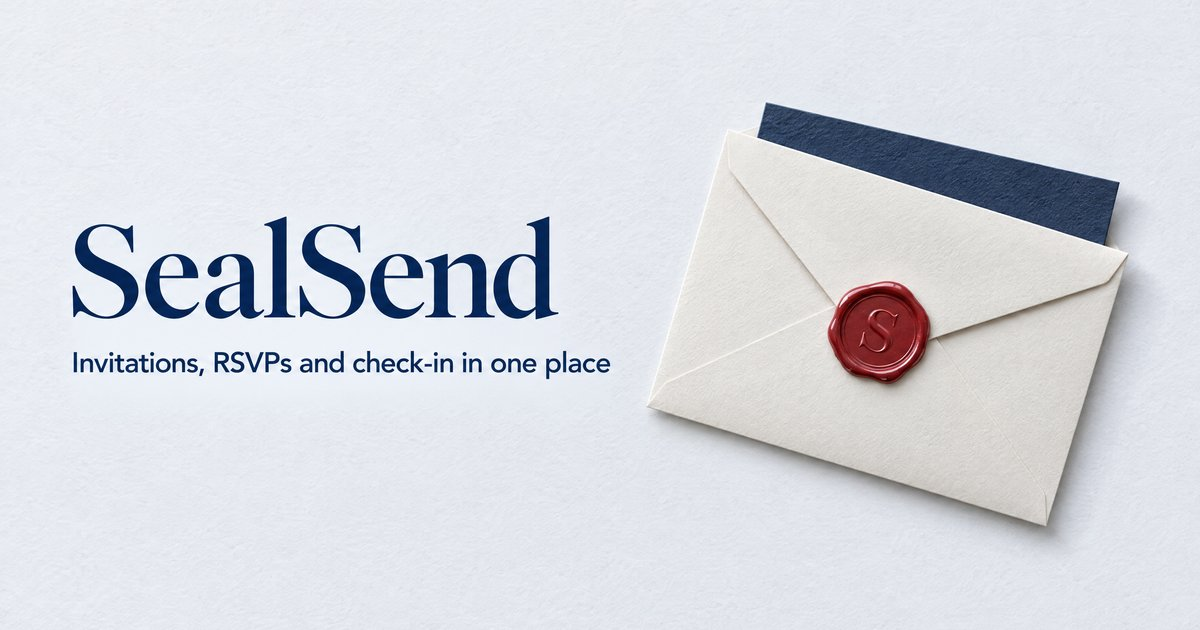
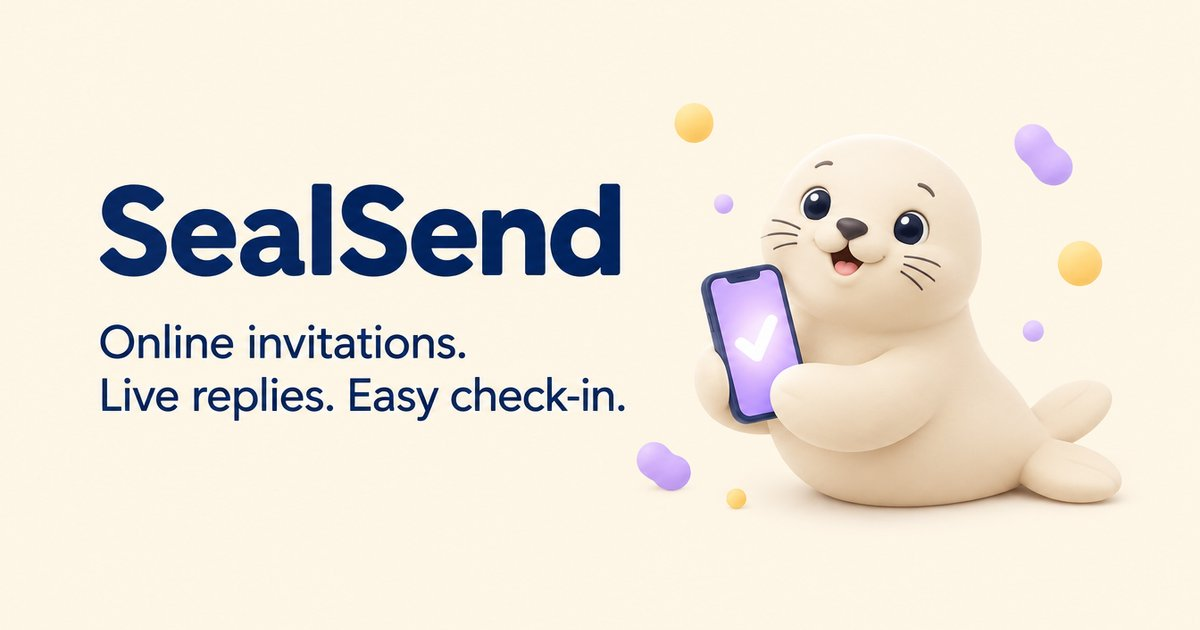
Clarify digital invitation positioning (#243)
* Make marketing clearly about digital invitations

* Return plain font readiness result to browser tests

diff --git a/src/components/marketing/DigitalInvitationVisual.tsx b/src/components/marketing/DigitalInvitationVisual.tsx
@@ -1,0 +1,72 @@
+import { cn } from "@/lib/utils";
+
+interface DigitalInvitationVisualProps {
+  /** Use the compact treatment in a feature row while keeping the same visual language as the hero. */
+  compact?: boolean;
+  className?: string;
+}
+
+/**
+ * A CSS illustration of a digital invitation. It deliberately has no controls
+ * or links: every label is sample content, so the visual cannot impersonate
+ * a live invitation or suggest that a guest action has been submitted.
+ */
+export default function DigitalInvitationVisual({ compact = false, className }: DigitalInvitationVisualProps) {
+  return (
+    <figure
+      aria-label="Illustrative example of an online invitation with sample replies"
+      className={cn("relative w-full", compact ? "min-h-[16rem]" : "min-h-[25rem]", className)}
+    >
+      <div
+        aria-hidden="true"
+        className={cn(
+          "relative isolate flex h-full min-h-[inherit] items-center overflow-hidden rounded-[2rem] border border-[#1b2a4a]/10 bg-[#f2ecff] p-4 shadow-[0_18px_50px_-30px_rgba(27,42,74,0.55)] sm:p-7",
+          compact && "rounded-2xl p-3 sm:p-5",
+        )}
+      >
+        <span className="absolute -right-12 -top-12 -z-10 h-32 w-32 rounded-full bg-[#f2d875]/75" />
+        <span className="absolute -bottom-16 -left-10 -z-10 h-36 w-36 rounded-full bg-[#b7d7c1]/80" />
+        <div className={cn("mx-auto grid w-full max-w-3xl items-center gap-3 sm:grid-cols-[minmax(0,1fr)_10rem] sm:gap-5", compact && "sm:grid-cols-[minmax(0,1fr)_8rem] sm:gap-3")}>
+          <div className="overflow-hidden rounded-2xl border border-[#1b2a4a]/15 bg-white shadow-[0_12px_28px_-20px_rgba(27,42,74,0.8)]">
+            <div className="flex h-8 items-center gap-1.5 border-b border-[#1b2a4a]/10 bg-[#fbfaf7] px-3">
+              <span className="h-2 w-2 rounded-full bg-[#ed8d74]" />
+              <span className="h-2 w-2 rounded-full bg-[#f2d875]" />
+              <span className="h-2 w-2 rounded-full bg-[#b7d7c1]" />
+              <span className="ml-2 truncate text-[0.6rem] font-semibold tracking-wide text-[#1b2a4a]/80">sealsend.app / invitation</span>
+            </div>
+            <div className={cn("bg-[#fbfaf7] p-3 sm:p-5", compact && "p-3 sm:p-4")}>
+              <div className="mx-auto max-w-[22rem] rounded-xl border border-[#1b2a4a]/10 bg-white p-4 text-center shadow-sm sm:p-5">
+                <span className="inline-flex rounded-full bg-[#f2d875]/45 px-2.5 py-1 text-[0.55rem] font-bold uppercase tracking-[0.16em] text-[#1b2a4a]">
+                  Online invitation
+                </span>
+                <p className="mt-3 font-display text-xl leading-tight text-[#1b2a4a] sm:text-2xl">Sam&apos;s summer birthday</p>
+                <p className="mt-2 text-xs leading-relaxed text-[#1b2a4a]/80">Saturday, August 16 · 6:30 pm<br />The garden behind the house</p>
+                <div className="mt-4 h-1.5 overflow-hidden rounded-full bg-[#b7d7c1]/45">
+                  <span className="block h-full w-3/4 rounded-full bg-[#759d82]" />
+                </div>
+                <p className="mt-2 text-[0.65rem] font-semibold text-[#1b2a4a]/80">18 yes · 4 maybe · 2 can&apos;t make it</p>
+              </div>
+            </div>
+          </div>
+
+          <div className="mx-auto w-full max-w-[10rem] rounded-[1.35rem] border-[5px] border-[#1b2a4a] bg-[#fbfaf7] p-2 shadow-[0_15px_28px_-18px_rgba(27,42,74,0.9)]">
+            <div className="mx-auto mb-2 h-1 w-8 rounded-full bg-[#1b2a4a]/45" />
+            <div className="rounded-[0.8rem] bg-white p-2.5">
+              <span className="inline-flex rounded-full bg-[#d9c9f4] px-2 py-1 text-[0.48rem] font-bold uppercase tracking-wide text-[#1b2a4a]">Sample replies</span>
+              <p className="mt-3 text-[0.7rem] font-bold leading-tight text-[#1b2a4a]">Who&apos;s coming?</p>
+              <div className="mt-2 space-y-1.5 text-[0.55rem] font-semibold text-[#1b2a4a]/75">
+                <span className="block rounded-md bg-[#b7d7c1]/45 px-2 py-1.5">Yes · 18</span>
+                <span className="block rounded-md bg-[#f2d875]/40 px-2 py-1.5">Maybe · 4</span>
+                <span className="block rounded-md bg-[#ed8d74]/20 px-2 py-1.5">Can&apos;t make it · 2</span>
+              </div>
+            </div>
+            <span className="mx-auto mt-2 block h-1 w-8 rounded-full bg-[#1b2a4a]/30" />
+          </div>
+        </div>
+      </div>
+      <figcaption className="mt-3 text-center text-xs font-medium text-neutral-600">
+        Illustrative example · sample replies shown, not a live invitation.
+      </figcaption>
+    </figure>
+  );
+}

diff --git a/src/components/marketing/Hero.tsx b/src/components/marketing/Hero.tsx
@@ -1,15 +1,15 @@
-import Image from "next/image";
 import { SealMark } from "@/components/layout/Logo";
 import { PRIMARY_CTA_NOTE, PrimaryCta, SecondaryCta } from "@/components/marketing/Cta";
+import DigitalInvitationVisual from "@/components/marketing/DigitalInvitationVisual";
 
 export default function Hero() {
   return (
     <section className="relative overflow-hidden bg-[#faf7f0]">
       <div className="mx-auto grid max-w-7xl items-center gap-8 px-4 py-12 sm:px-6 sm:py-16 lg:grid-cols-12 lg:gap-6 lg:px-8 lg:py-20">
         <div className="lg:col-span-5">
-          <p className="inline-flex items-center gap-2 rounded-full border border-ink/15 bg-[#f2d875]/35 px-4 py-2 text-sm font-semibold text-ink"><SealMark className="animate-seal-press h-6 w-6 shrink-0" />A little less admin. A lot more together.</p>
+          <p className="inline-flex items-center gap-2 rounded-full border border-ink/15 bg-[#f2d875]/35 px-4 py-2 text-sm font-semibold text-ink"><SealMark className="animate-seal-press h-6 w-6 shrink-0" />Online invitations</p>
           <h1 className="mt-6 font-display text-[2.75rem] leading-[1.06] text-ink sm:text-6xl">Send the invitation. Know who&apos;s coming.</h1>
-          <p className="mt-6 max-w-xl text-lg leading-relaxed text-neutral-700">Birthdays, club nights, neighbourhood dinners. Make a lovely invitation and keep every reply in one place.</p>
+          <p className="mt-6 max-w-xl text-lg leading-relaxed text-neutral-700">Birthdays, club nights, neighbourhood dinners. Make a digital invitation, share a link, and keep every reply in one place.</p>
           <p className="mt-4 text-neutral-600">Your guests just tap a link. No app or account needed.</p>
           <div className="mt-8 flex flex-col gap-3 sm:flex-row lg:flex-col xl:flex-row">
             <PrimaryCta />
@@ -18,8 +18,7 @@ export default function Hero() {
           <p className="mt-4 text-sm text-neutral-600">{PRIMARY_CTA_NOTE}</p>
         </div>
         <div className="lg:col-span-7">
-          <Image src="/brand/illustrations/invitation-studio.webp" alt="A colourful paper invitation in a yellow envelope, with people gathering and a friendly seal peeking out" width={1024} height={688} preload sizes="(min-width: 1024px) 58vw, 100vw" className="h-auto w-full rounded-[2rem]" />
-          <p className="mt-4 text-center text-sm text-neutral-600">Made for the people you can&apos;t wait to see.</p>
+          <DigitalInvitationVisual />
         </div>
       </div>
     </section>

diff --git a/src/components/marketing/FeatureRows.tsx b/src/components/marketing/FeatureRows.tsx
@@ -1,12 +1,21 @@
 import Image from "next/image";
 import { cn } from "@/lib/utils";
+import DigitalInvitationVisual from "@/components/marketing/DigitalInvitationVisual";
 
-const features = [
+type Feature = {
+  title: string;
+  text: string;
+  icon: string;
+} & (
+  | { visual: true; image?: never; alt?: never }
+  | { visual?: false; image: string; alt: string }
+);
+
+const features: Feature[] = [
   {
-    title: "An invitation worth opening.",
+    title: "A digital invitation worth opening.",
     text: "Pick a design, add your photo and colours, and preview exactly what guests will see.",
-    image: "/brand/photos/design-invitation.webp",
-    alt: "A wedding invitation with a wax seal and an RSVP button on a phone, beside paper colour swatches and a fountain pen",
+    visual: true,
     icon: "/brand/icons/invitation.svg",
   },
   {
@@ -44,17 +53,22 @@ export default function FeatureRows() {
             <div key={feature.title} className="grid items-center gap-5 sm:gap-8 lg:grid-cols-12 lg:gap-16">
               <div
                 className={cn(
-                  "relative aspect-[4/3] overflow-hidden rounded-2xl border border-border lg:col-span-7",
+                  "relative rounded-2xl border border-border lg:col-span-7",
+                  !feature.visual && "aspect-[4/3] overflow-hidden",
                   index % 2 === 1 && "lg:order-2",
                 )}
               >
-                <Image
-                  src={feature.image}
-                  alt={feature.alt}
-                  fill
-                  sizes="(min-width: 1280px) 720px, (min-width: 1024px) 58vw, 100vw"
-                  className="object-cover"
-                />
+                {feature.visual ? (
+                  <DigitalInvitationVisual compact />
+                ) : (
+                  <Image
+                    src={feature.image}
+                    alt={feature.alt}
+                    fill
+                    sizes="(min-width: 1280px) 720px, (min-width: 1024px) 58vw, 100vw"
+                    className="object-cover"
+                  />
+                )}
               </div>
               <div className="lg:col-span-5">
                 {/* On phones the photo directly above carries the row, so the icon only shows from sm. */}

diff --git a/src/components/marketing/CTASection.tsx b/src/components/marketing/CTASection.tsx
@@ -5,9 +5,9 @@ export default function CTASection() {
   return (
     <section className="bg-[#e5daf4] px-4 py-14 sm:px-6 sm:py-20 lg:px-8">
       <div className="mx-auto grid max-w-5xl items-center gap-8 md:grid-cols-[1fr_2fr]">
-        <Image src="/brand/illustrations/seal-sidekick.webp" alt="A friendly seal carrying a yellow invitation" width={600} height={600} sizes="(min-width: 768px) 280px, 220px" className="mx-auto h-auto w-44 rounded-full sm:w-56" />
+        <Image src="/brand/illustrations/seal-digital.webp" alt="A friendly seal holding a phone with a reply confirmation" width={600} height={600} sizes="(min-width: 768px) 280px, 220px" className="mx-auto h-auto w-44 rounded-full sm:w-56" />
         <div className="text-center md:text-left">
-          <h2 className="font-display text-4xl text-ink sm:text-5xl">Your next event, sealed and sent.</h2>
+          <h2 className="font-display text-4xl text-ink sm:text-5xl">Bring your people together, online.</h2>
           <p className="mt-4 text-lg text-neutral-700">You bring the people. We&apos;ll help with the details.</p>
           <PrimaryCta className="mt-7" />
           <p className="mt-4 text-sm text-neutral-600">{PRIMARY_CTA_NOTE}</p>

diff --git a/src/lib/metadata.ts b/src/lib/metadata.ts
@@ -4,14 +4,14 @@ export const SITE_URL = process.env.NEXT_PUBLIC_SITE_URL || "https://sealsend.ap
 export const SITE_NAME = "SealSend";
 export const DEFAULT_TITLE = "SealSend: Online Invitations with RSVP Tracking & Check-in";
 export const DEFAULT_DESCRIPTION =
-  "Send beautiful online invitations, track every RSVP, message guests by email or text, and check them in at the door. Free for your first event.";
+  "Create online invitations, share a link, collect every reply, and check guests in from your phone. Free beta: one event, up to 100 guests.";
 
 // One static Open Graph card for every page (public/brand/og.jpg, 1200x630).
 export const OG_IMAGE = {
   url: "/brand/og.jpg",
   width: 1200,
   height: 630,
-  alt: "A SealSend invitation sealed with a wax S, beside a phone showing who is going",
+  alt: "SealSend online invitations, live replies and easy check-in, with a friendly seal holding a phone",
 };
 
 export function createMetadata({

diff --git a/tests/e2e/page-ready.ts b/tests/e2e/page-ready.ts
@@ -5,7 +5,12 @@ export async function openReadyPage(page: Page, route: string) {
   const response = await page.goto(route, { waitUntil: 'domcontentloaded' });
   expect(response?.status(), route).toBeLessThan(400);
   await expect(page.locator('#main-content')).toBeVisible();
-  await page.evaluate(() => document.fonts.ready);
+  // Await the readiness promise inside the browser and return a serializable
+  // value instead of transferring the browser-owned FontFaceSet result.
+  await page.evaluate(async () => {
+    await document.fonts.ready;
+    return true;
+  });
   await expect.poll(() => page.evaluate(() => Array.from(document.images).every(image => {
     const rect = image.getBoundingClientRect();
     const visible = rect.width > 0 && rect.height > 0 && rect.bottom > 0

diff --git a/src/components/pricing/PricingCTA.tsx b/src/components/pricing/PricingCTA.tsx
@@ -6,7 +6,7 @@ export function PricingCTA() {
   return (
     <section className="bg-[#e5daf4] px-4 py-20 text-ink sm:px-6 sm:py-24">
       <div className="mx-auto flex max-w-3xl flex-col items-center text-center">
-        <Image src="/brand/illustrations/seal-sidekick.webp" alt="" width={600} height={600} sizes="160px" className="h-40 w-40 rounded-full" />
+        <Image src="/brand/illustrations/seal-digital.webp" alt="" width={600} height={600} sizes="160px" className="h-40 w-40 rounded-full" />
         <h2 className="mt-6 font-display text-4xl sm:text-5xl">
           {BETA_MODE ? "Ready to run one real event?" : "Your next event, sealed and sent."}
         </h2>

diff --git a/docs/design/digital-first-marketing-2026-10-09.md b/docs/design/digital-first-marketing-2026-10-09.md
@@ -1,0 +1,19 @@
+# Digital-first marketing correction
+
+Cameron noted that paper, envelopes and wax seals could imply a printed stationery service. This supersedes the paper-led imagery direction in the earlier marketing studio brainstorm and brand brief. Keep the existing logo, warmth, gathering art and playful seal character; communicate a digital invitation app clearly.
+
+The hero now says Online invitations and digital invitation/share a link. A responsive semantic browser/phone illustration replaces the physical envelope. The first invitation feature row uses the same digital illustration with natural height, avoiding clipped screens/captions on phones. Sample replies are illustrative and labelled; there are no fabricated live controls or requests. Existing interactive invitation examples remain local-only.
+
+A new Higgsfield phone-holding seal replaces the invitation-carrying mascot in homepage/pricing CTAs. The shared social preview now reads Online invitations. Live replies. Easy check-in. and replaces the envelope image. Its alt text and default metadata describe the digital platform and current beta truthfully.
+
+## Graphic provenance
+
+- Phone seal: gpt_image_2_5 job 0a05c119-6c38-4d36-8ca6-414809b0451f; original inspected, optimized to public/brand/illustrations/seal-digital.webp (600x600).
+- Digital social card: gpt_image_2_5 job 6380c4dc-84bb-4c3e-83e7-56c6c8d79fc6; typography and scene inspected, resized to public/brand/og.jpg (1200x630).
+- Image cost preflight: 0.25 credits per image. No private inputs or app screenshots uploaded.
+
+## Validation and release
+
+Manual desktop/phone inspection verifies first-screen digital positioning and responsive illustration. Unit suite: 593 pass. Build, lint and types pass. Browser route/link/sample/navigation/hydration and screenshot checks pass; accessibility found a low-contrast browser label, corrected by darkening text, and all 15 final accessibility checks pass across five browser profiles (17 public/auth routes at each of three widths). The 45 route/link/sample/navigation/hydration and screenshot checks also pass. Final protected release proof is recorded in issue #242. Preserve beta/provider settings, uploads and existing product behavior. Protected CI, exact deployment and production proof are tracked in #242; broader external launch gates remain in #236.
+
+Linux WebKit CI timed out at the shared font-ready evaluate call. The helper now awaits document.fonts.ready inside the browser and returns a plain boolean instead of the browser-owned FontFaceSet. This preserves real font readiness, image readiness and every browser profile; it does not replace checks with a delay or skip. Protected CI must verify the correction before release.
